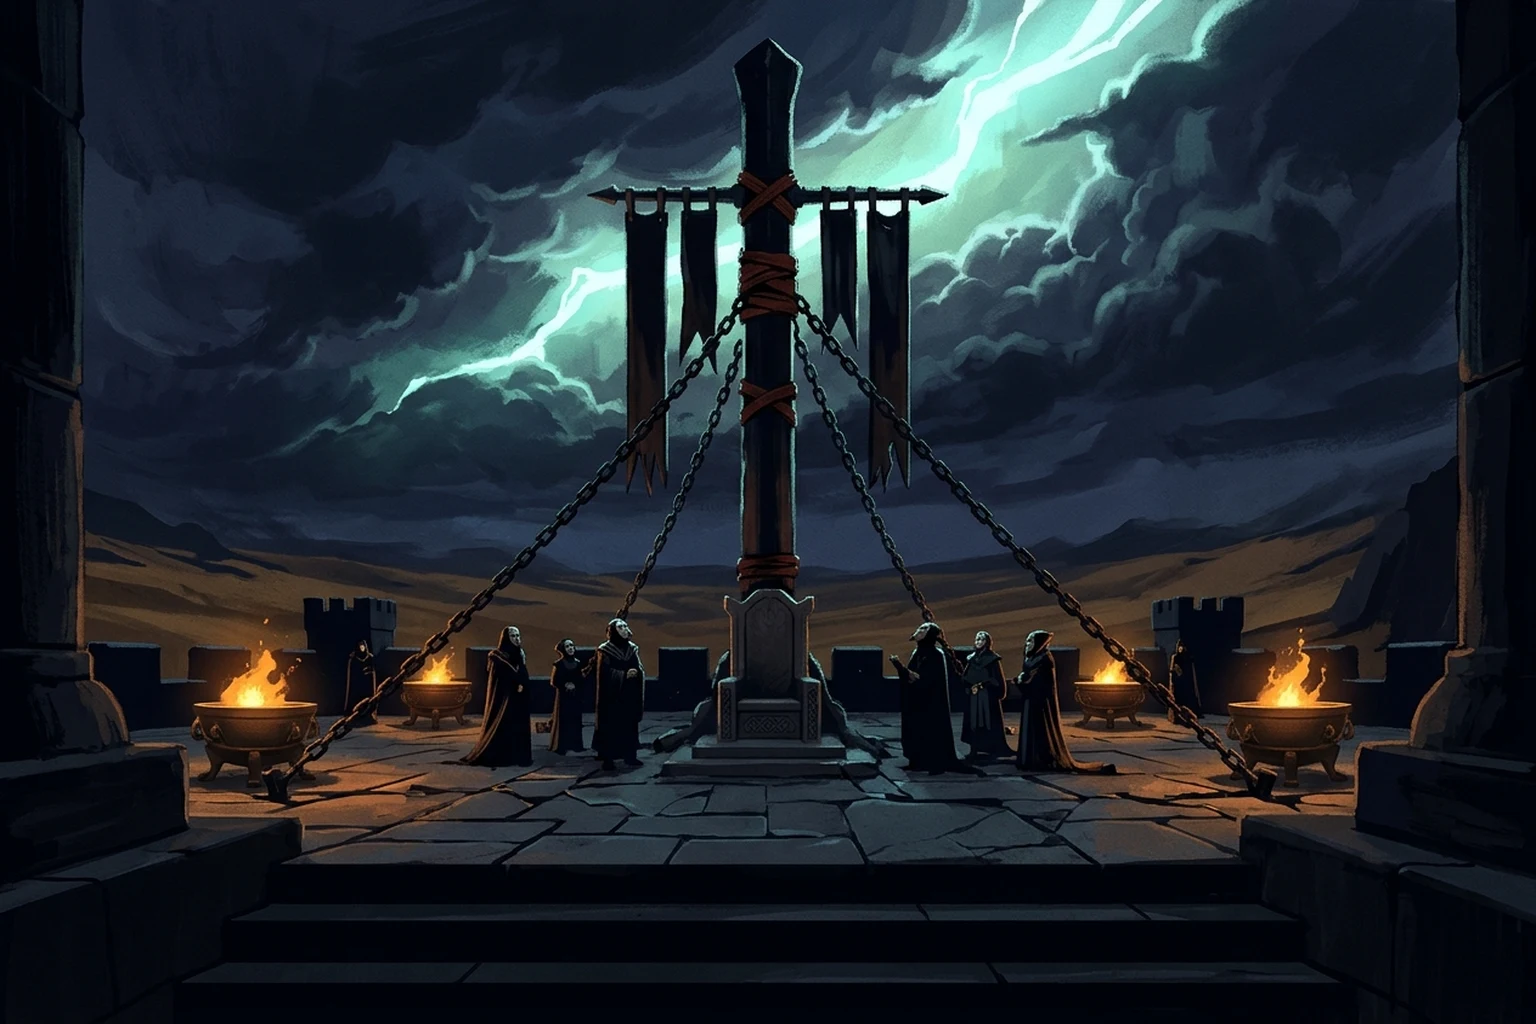
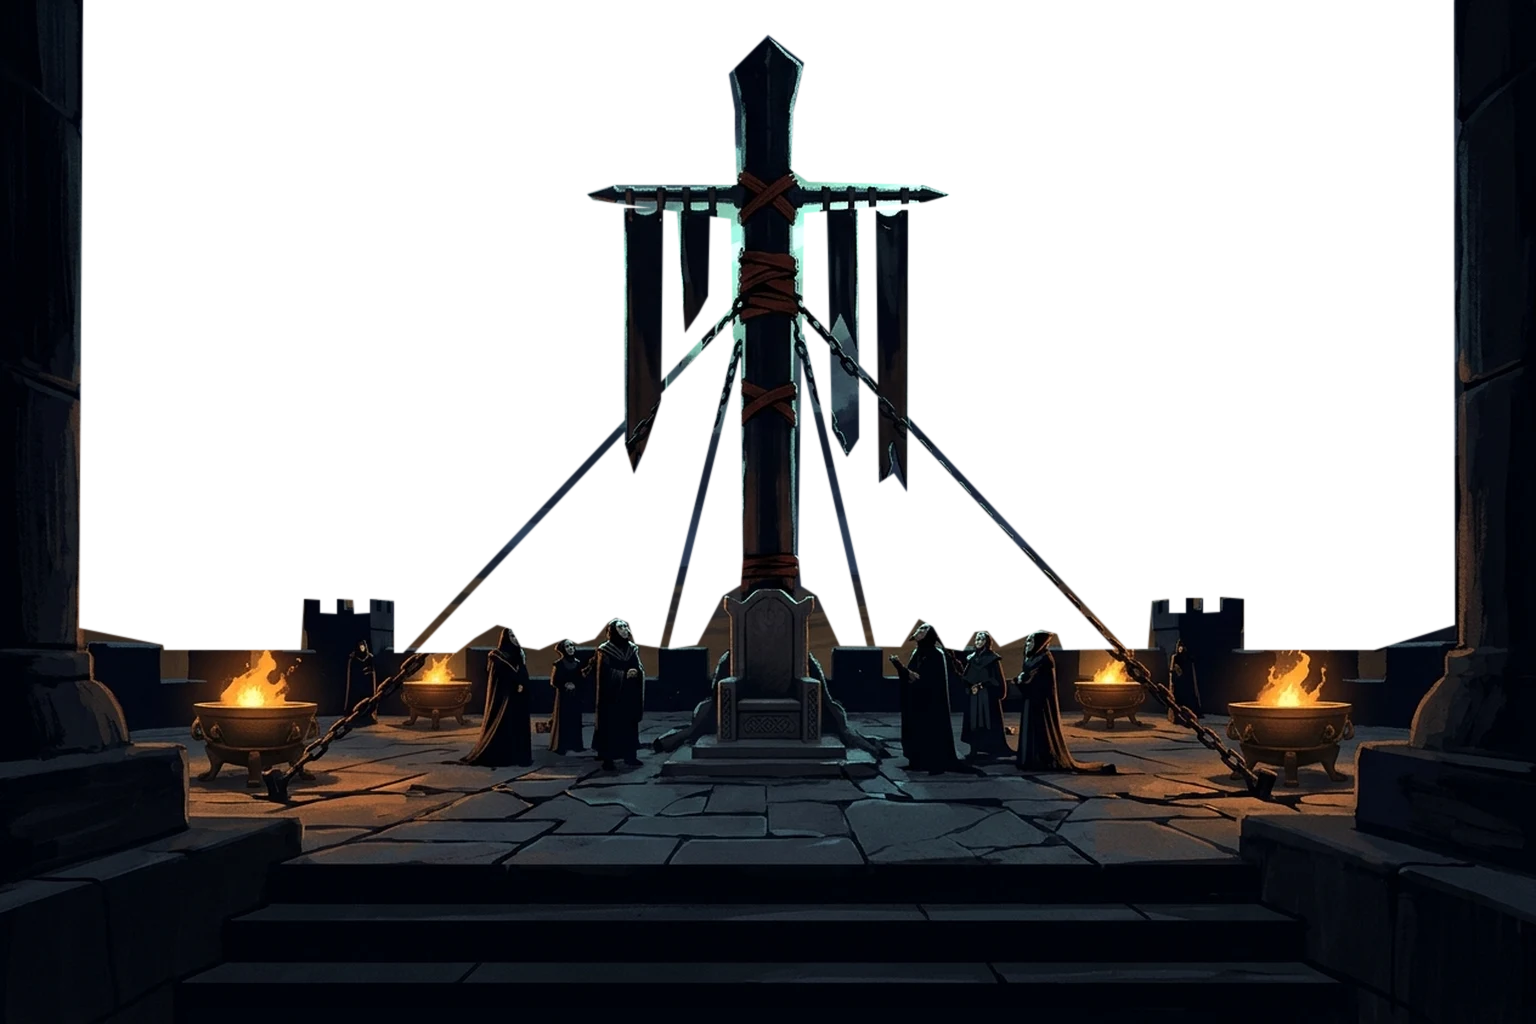
no-mistakes(review): Restore foreground transparency and add decoded-alpha regression coverage

diff --git a/tests/e2e/intro.spec.ts b/tests/e2e/intro.spec.ts
@@ -345,6 +345,29 @@ test('intro effects stay registered to each painting throughout camera motion an
         page.locator('.intro-painting').evaluate((image: HTMLImageElement) => image.naturalWidth),
       )
       .toBe(1536);
+    const subject = [
+      [310, 300],
+      [768, 500],
+      [170, 510],
+      [768, 700],
+      [950, 500],
+    ][chapter]!;
+    const alpha = await page
+      .locator('.intro-painting')
+      .evaluate(async (image: HTMLImageElement, subject) => {
+        await image.decode();
+        const canvas = document.createElement('canvas');
+        canvas.width = image.naturalWidth;
+        canvas.height = image.naturalHeight;
+        const context = canvas.getContext('2d')!;
+        context.drawImage(image, 0, 0);
+        return {
+          sky: context.getImageData(768, 16, 1, 1).data[3],
+          subject: context.getImageData(subject[0]!, subject[1]!, 1, 1).data[3],
+        };
+      }, subject);
+    expect(alpha.sky).toBe(0);
+    expect(alpha.subject).toBe(255);
     for (const viewport of [
       { width: 1280, height: 800 },
       { width: 1920, height: 800 },

diff --git a/docs/intro-artwork.md b/docs/intro-artwork.md
@@ -23,11 +23,14 @@ foreground, while that plane travels 12 image pixels right and four up over
 The oversized stage protects frame edges. Reduced motion disables all transforms
 and particles, including when the preference changes live.
 
-The ten WebP layers add 1,451,912 bytes (approximately 1.38 MiB) (quality 86 background / 88
+The ten WebP layers add 1,341,130 bytes (approximately 1.28 MiB) (quality 86 background / 88
 foreground), compared with 9.39 MiB for the five reusable original PNGs. Each
 `public/art/{scene}-mask.svg` records the manually traced registered foreground
-mask. Rasterize on black, feather by 0.6 image pixels, then copy the mask to the
-original painting's alpha channel before WebP encoding. The transparent spectral
+mask. Start SVG rasterization with `-background none` before reading the SVG,
+flatten the white mask on black, feather by 0.6 image pixels, then copy the
+grayscale mask to the original painting's alpha channel before alpha-preserving
+WebP encoding. The intro browser regression samples decoded sky and subject
+pixels in every foreground as well as measuring relative layer motion. The transparent spectral
 mist patch is feathered separately inside its SVG. These masks are authoring
 metadata; no raster processing or AI calls run in the game.
 
